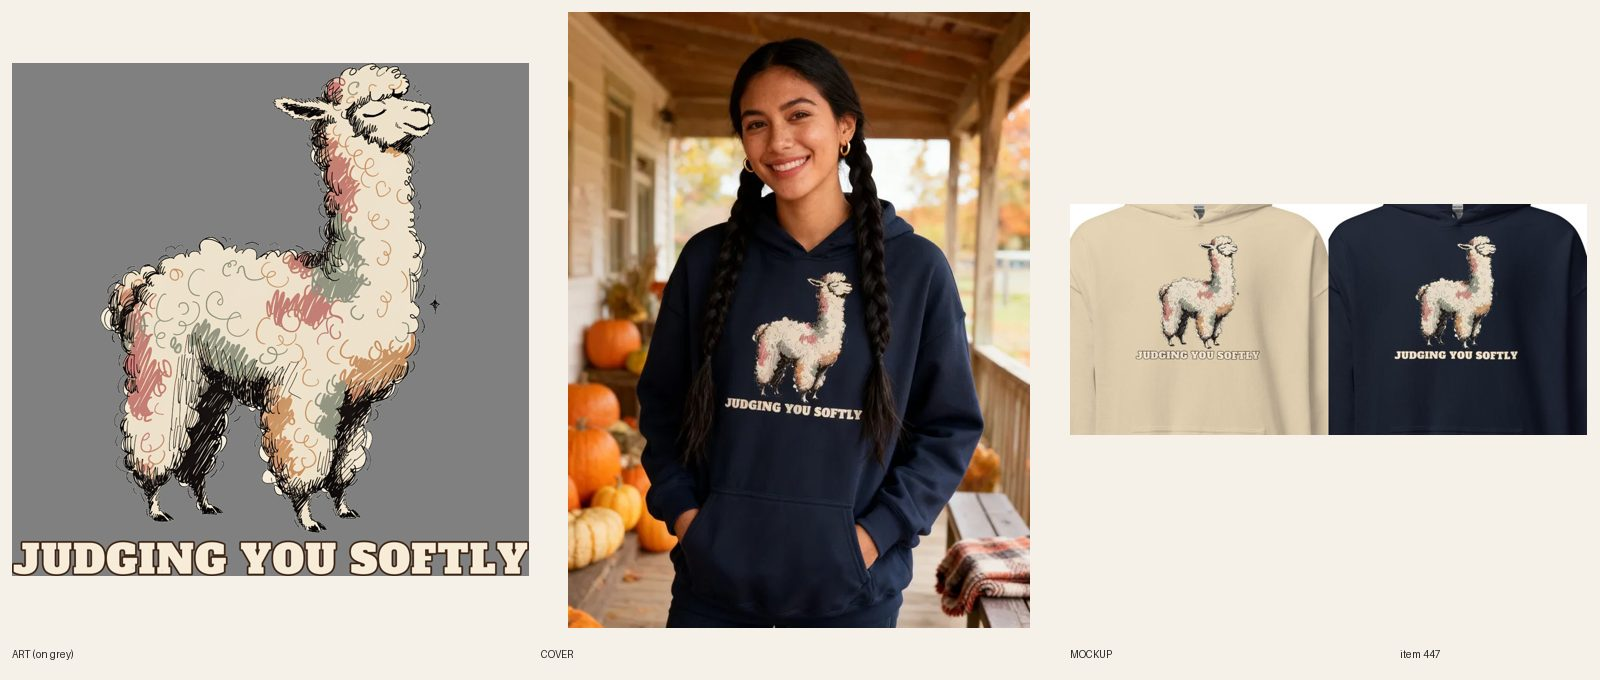
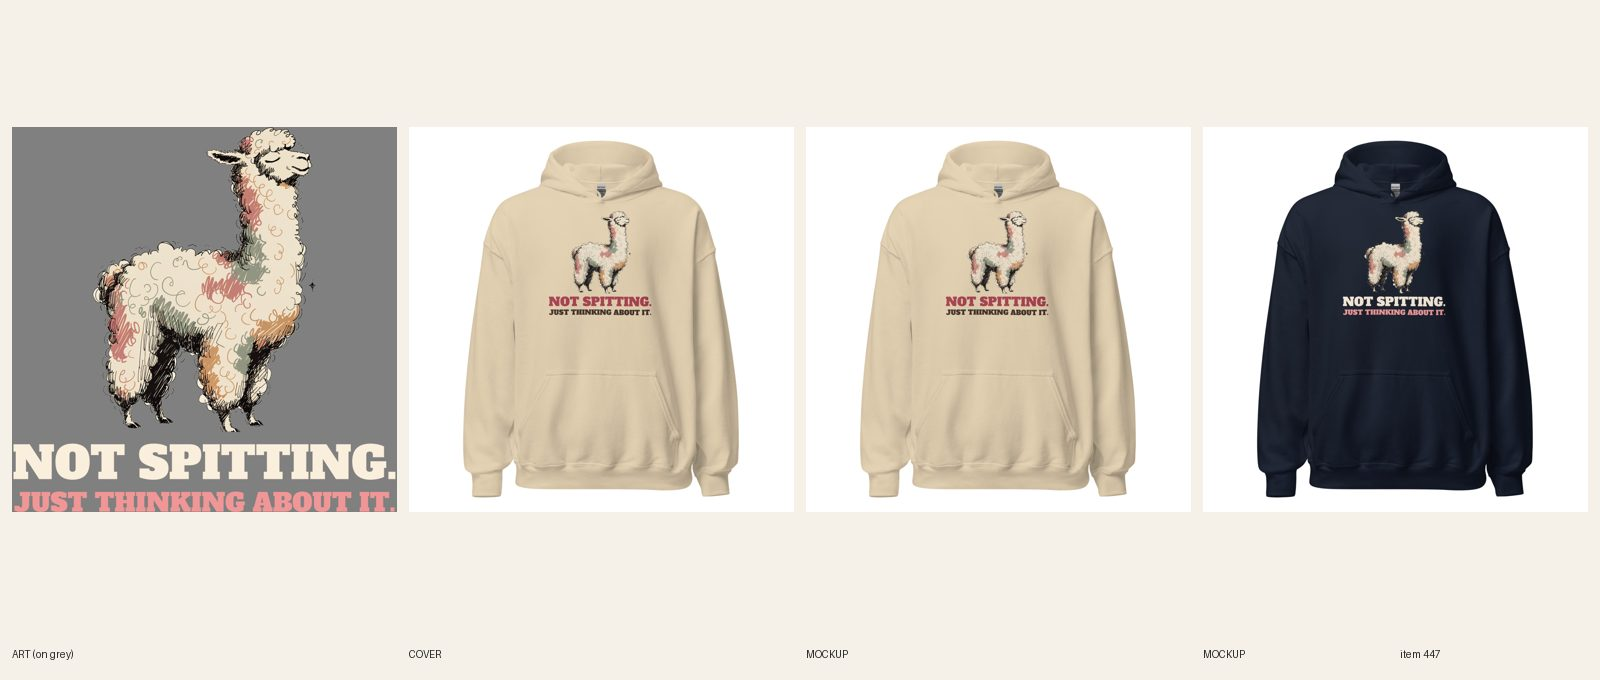
[A] review 447 (redo)
Claude-Session: https://claude.ai/code/session_01LaaEYpKaSBZd9opL7Tpo7i

diff --git a/docs/pipeline/447-alpaca-hoodie-self-made-fleece.md b/docs/pipeline/447-alpaca-hoodie-self-made-fleece.md
@@ -1,4 +1,4 @@
-status: BUILDING [A] 2026-10-20 08:40 UTC
+status: REVIEW
 lane: A
 type: new
 id: 447
@@ -33,3 +33,4 @@ kd: 14
 - 2026-10-17 21:52 UTC builder [A]: Printful resync verified (12/12 variants on the new file); REVIEW.
 - 2026-10-17 22:39 UTC director: APPROVED, LIVE. ACTIVE + Online Store, Headless and Google & YouTube; audit --handle PASS (0 warn). Copy polished by the director first (R8: keyword counts, superlatives, false claims).
 - 2026-10-18 17:22 UTC director: QUALITY RESET grade C (new line + type), REDO. The product stays ACTIVE (same handle, URL, title keyword). 1. Line (R3.12, quality-reset 'Lines'): "JUDGING YOU SOFTLY": Mild aside; generic animal-judging trope. Write 5 candidates, keep the one a stranger laughs at in 3 seconds without backstory; kill lines that only describe the picture; if none of the 5 is funny, PARK it. 2. Quality reset type bar (docs/backlog/quality-reset.md, 'The new bar'): headline at least 90% of the art width, heavy, colors pulled from the art; second line at least 45% of the headline's height, never a thin script on a dark or mid garment; use the lettering as a shape (arch, stacked lockup, words breaking into the art), not a plain bar above and a script line below; no font used on more than 1 in 6 of the last 30 designs. 3. Keep the art if it carries the new line, else one new illustration (R4/R5). New print means a new cover per R6.10, copy line one rewritten for the new joke (R8.3), and a fresh review sheet (R7.7). While quality-reset.md says PAUSED, only lane A builds, and only the samples step 2 names.
+- 2026-10-20 08:48 UTC builder [A]: REDO grade C done (new line + type). Line: NOT SPITTING. / JUST THINKING ABOUT IT. (5 candidates; the alpaca warning kept; title and handle unchanged). Same smug alpaca art (old caption cropped off, 3300x2965), Alfa Slab One both lines at full print width (3275 / 3259 px; second 57% of headline height), rose + brown from the fleece colors, lockup 3300x3300, FW 1500 TOP 0 (pullover 18500). Light-file split: Sand on 1090262310 (rose headline, brown second line), Navy on 1090262327 (cream headline, pink second line). Back logo 1080398177 kept. Relinked 12/12 verified. 2 fronts replaced in place (fileUpdate), phone-size read ok on both. Copy: Story line one, art sentence (ink named per color); SEO title/meta updated; 5 FAQs, Dec 8 kept; no R8.3 opener. Cover: handle added to retired-covers.json (plain product shot). fal $0. audit --handle PASS; astro build ok.

diff --git a/docs/intake-log.md b/docs/intake-log.md
@@ -2,6 +2,7 @@
 2026-10-20 08:46 UTC — [E] Builder run: redid #652 Women's Lineman crewneck (line + type: DINNER'S AT 6. / WEATHER PERMITTING., same line-wife art, Bevan, Navy + Sand files, 12/12 synced). REVIEW. fal $0.
 2026-10-20 08:46 UTC — [E] Builder run: redid #631 Men's Grandpa crewneck (line + type: I'M THE REASON / DAD IS LIKE THIS., same laughing-grandpa art, Bowlby One, Navy + Sand files, 12/12 synced). REVIEW. fal $0.
 2026-10-20 08:46 UTC — [E] Builder run: redid #628 Women's Bear hoodie (line + type: I'LL SLEEP / IN MARCH., same mama-bear art, Alfa Slab One, Navy + Sand files, 12/12 synced). REVIEW. fal $0.
+2026-10-20 08:48 UTC — [A] Builder run: redid #447 Women's Alpaca hoodie (line+type: NOT SPITTING. / JUST THINKING ABOUT IT., same smug alpaca art, Alfa Slab full width, FW 1500 TOP 0, Sand file 1090262310 / Navy file 1090262327, 12/12 relinked, 2 fronts replaced in place, copy updated, plain product shot). REVIEW. fal $0.
 2026-10-20 08:33 UTC — [E] Builder run: redid #613 Men's Bowling tee (line + type: THE PINS / STARTED IT., same stern-bowler art, Alfa Slab One, cream file on 5 dark colors + dark-ink file on 3 light colors, 56/56 synced). REVIEW. fal $0.
 2026-10-20 08:40 UTC — [A] Builder run: redid #417 Men's Tiger oversized hoodie (line+type: WAKE ME UP AND / FIND OUT., same sleeping tiger art, Bevan full width, FW 1500 TOP 0, Dust file 1090259057 / Navy file 1090259076, 12/12 relinked, 2 fronts replaced in place, copy updated, plain product shot). REVIEW. fal $0.
 2026-10-20 08:32 UTC — [A] Builder run: redid #408 Unisex Shark oversized hoodie (line+type: I'M NOT AGGRESSIVE. / JUST ENTHUSIASTIC., same great white art, Alfa Slab full width, FW 1500 TOP 0, Dust file 1090256703 / Navy file 1090256712, 12/12 relinked, 2 fronts replaced in place, copy updated, plain product shot). REVIEW. fal $0.
